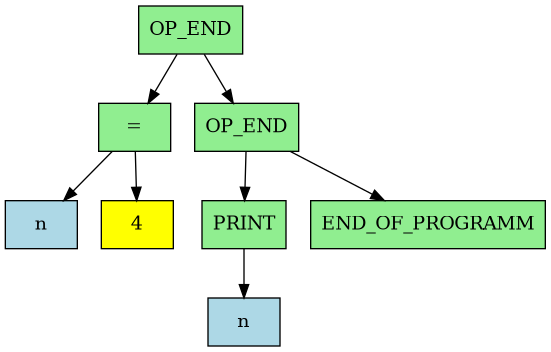
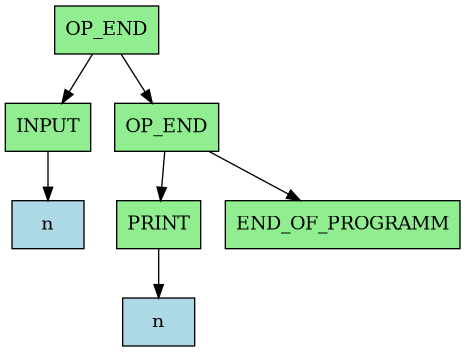
Добавил вывод

diff --git a/back_end.cpp b/back_end.cpp
@@ -43,6 +43,7 @@ tree_errors make_asm_code(back_end_base_t* back_end_base,
         fprintf(asm_code_address, "\t%s dd 0\n", back_end_base->tree->variable_list[i].var_name);
     }
 
+    fprintf(asm_code_address, "\tinput_str times 20 db 0\n");
     fprintf(asm_code_address, "\toutput_str times 20 db 0\n");
 
     fprintf(asm_code_address, "section .text\n\tglobal _start\n_start:\n");
@@ -325,6 +326,7 @@ void print_lib(FILE* asm_code_address, FILE* byte_code_address)
     assert(byte_code_address);
 
     fprintf(asm_code_address,
+        ";------------------------------------------------------------------\n"
         "print:\n"
         "\tlea rdi, output_str\n"
         "\n"
@@ -382,6 +384,70 @@ void print_lib(FILE* asm_code_address, FILE* byte_code_address)
         "\tmov byte [rdi], 0\n"
         "\tinc rdi\n"
         "\tloop free_buffer\n"
+        "\n"
+        "\tret\n");
+
+    fprintf(asm_code_address,
+        ";------------------------------------------------------------\n"
+        "input:\n"
+        "\tpush rbx\n"
+        "\tpush rcx\n"
+        "\tpush rdx\n"
+        "\tpush rdi\n"
+        "\tpush rsi\n"
+        "\tmov rax, 0\n"
+        "\tmov rdi, 0\n"
+        "\tlea rsi, input_str\n"
+        "\tmov rdx, 20\n"
+        "\tsyscall\n"
+        "\n"
+        "\tlea rdi, input_str\n"
+        "\txor rax, rax\n"
+        "\tmov rsi, 1                   ;флаг знака\n"
+        "\n"
+        "\txor rcx, rcx\n"
+        "\tskip_spaces:\n"
+        "\tmov cl, [rdi]\n"
+        "\tcmp cl, ' '\n"
+        "\tjne check_sign\n"
+        "\tinc rdi\n"
+        "\tjmp skip_spaces\n"
+        "check_sign:\n"
+        "\tmov cl, [rdi]\n"
+        "\tcmp cl, '-'\n"
+        "\tje set_negative\n"
+        "\tjmp make_number\n"
+        "set_negative:\n"
+        "\tmov rsi, -1\n"
+        "\tinc rdi\n"
+        "\n"
+        "make_number:\n"
+        "\tmov cl, [rdi]\n"
+        "\tcmp cl, '0'\n"
+        "\tjl done\n"
+        "\tcmp cl, '9'\n"
+        "\tjg done\n"
+        "\n"
+        "\tsub cl, '0'\n"
+        "\timul rax, 10\n"
+        "\tadd rax, rcx\n"
+        "\n"
+        "\tinc rdi\n"
+        "\tjmp make_number\n"
+        "done:\n"
+        "\timul rax, rsi\n"
+        "\tmov rcx, 20\n"
+        "\tlea rdi, input_str\n"
+        "free_input_buffer:\n"
+        "\tmov byte [rdi], 0\n"
+        "\tinc rdi\n"
+        "\tloop free_input_buffer\n"
+        "\n"
+        "\tpop rsi\n"
+        "\tpop rdi\n"
+        "\tpop rdx\n"
+        "\tpop rcx\n"
+        "\tpop rbx\n"
         "\n"
         "\tret\n");
     return;

diff --git a/infix_read.cpp b/infix_read.cpp
@@ -209,16 +209,26 @@ node_t** lexic_analiz(char** buffer, tree_t* tree)
             node_list[node_number] = PAR_CLOSE_();
             (*buffer)++;
         }
-        else if (isdigit(**buffer))//TODO отрицательные числа
+        else if (isdigit(**buffer) || **buffer == '-')
         {
             val = 0;
             buffer_at_start = *buffer;
-
-            while ('0' <= **buffer && **buffer <= '9')
+            if (**buffer == '-')
             {
-                val = val*10 + (**buffer - '0');
                 (*buffer)++;
+                while ('0' <= **buffer && **buffer <= '9')
+                {
+                    val = val*10 - (**buffer - '0');
+                    (*buffer)++;
+                }
             }
+            else
+                while ('0' <= **buffer && **buffer <= '9')
+                    {
+                        val = val*10 + (**buffer - '0');
+                        (*buffer)++;
+                    }
+
             if (buffer_at_start != *buffer)
                 node_list[node_number] = NUM_(val);
         }

diff --git a/back_end_main.cpp b/back_end_main.cpp
@@ -59,7 +59,6 @@ int main(int argc, char* argv[])//TODO объединить функции в б
 
     system("nasm -f elf64 -o test.o asm.txt");
     system("ld -o test test.o");
-    system("./test");
 
     back_end_destroy(back_end_base);
 
